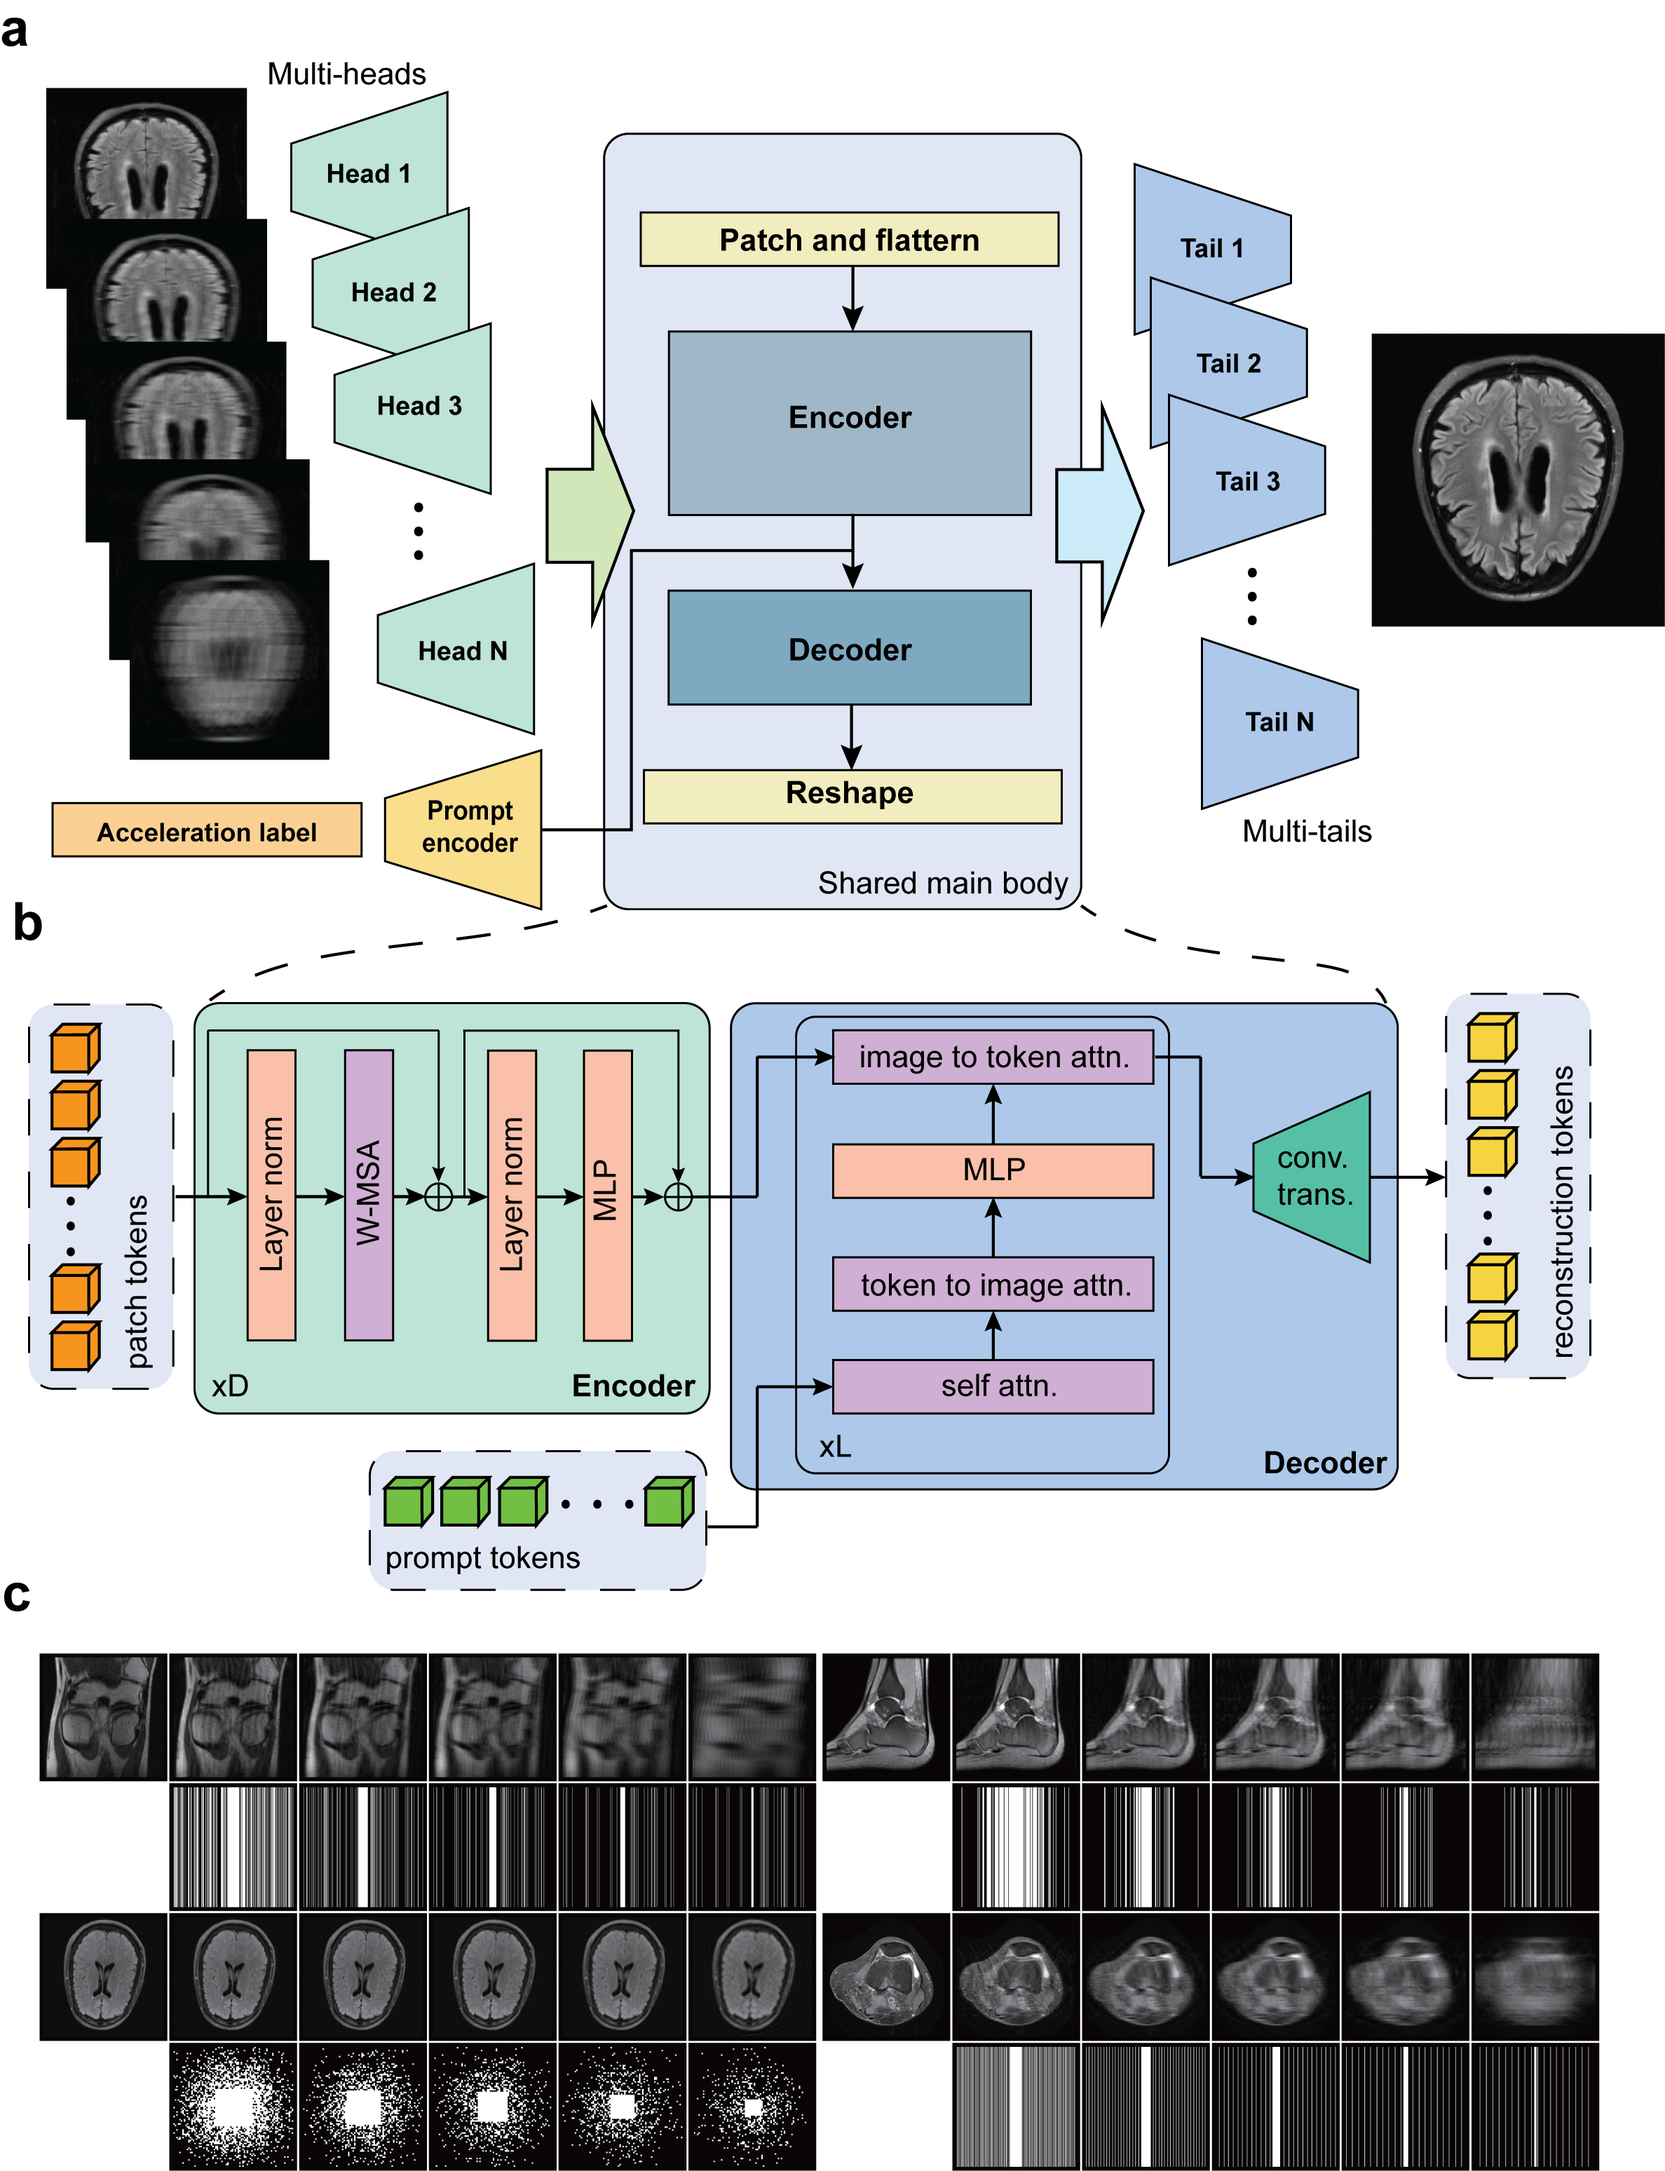
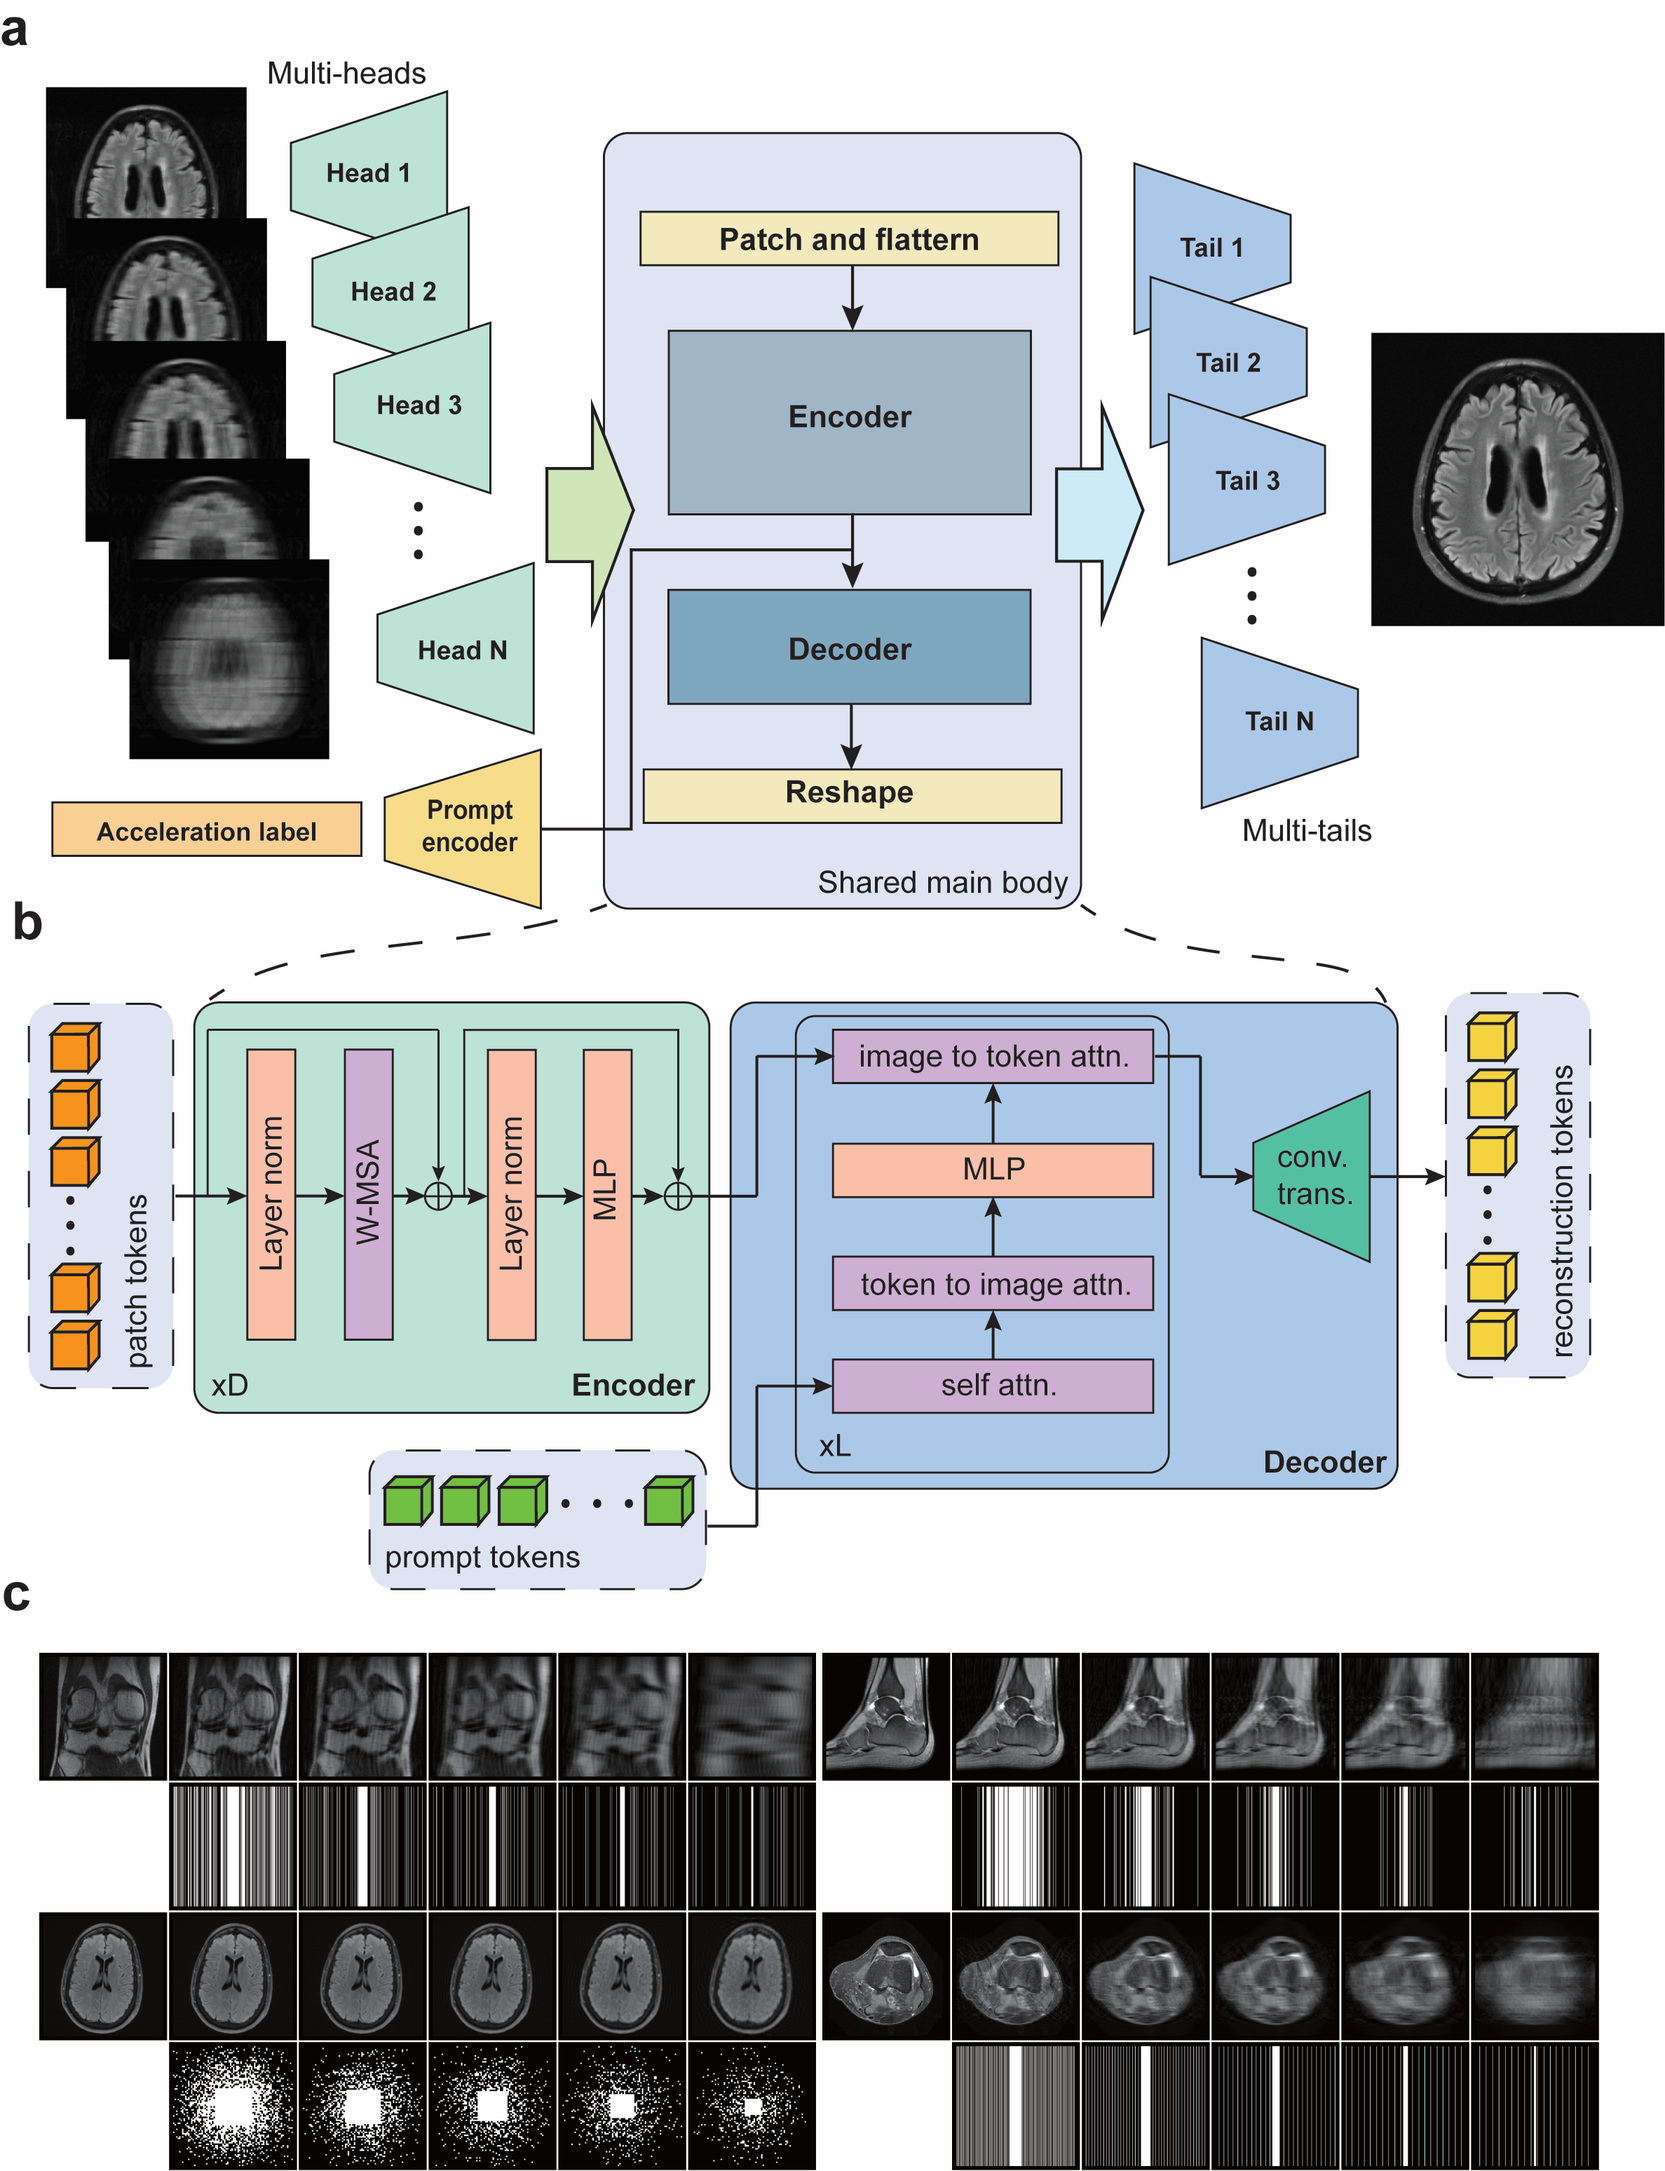
Update files

diff --git a/README.md b/README.md
@@ -1,16 +1,36 @@
 # MR-IPT
 
 This is the code repo for: 
-Magnetic Resonance Image Processing Transformer for General Accelerated Image Reconstruction.
+
+[Magnetic resonance image processing transformer for general accelerated image restoration](https://www.nature.com/articles/s41598-025-23851-w).
 
 
 ## Overview
-In this work, we introduce the Magnetic Resonance Image Processing Transformer (MR-IPT), 
-a ViT-based framework designed to enhance the generalizability and robustness of accelerated MRI reconstruction. 
-Unlike conventional deep learning models that require separate training for different acceleration factors, 
-MR-IPT is pre-trained on a large-scale dataset encompassing multiple undersampling patterns and acceleration settings, 
-enabling a unified reconstruction framework.
+Recent advancements in deep learning have enabled the development of generalizable models that 
+achieve state-of-the-art performance across various imaging tasks. Vision Transformer (ViT)-based 
+architectures, in particular, have demonstrated strong feature extraction capabilities when 
+pre-trained on large-scale datasets. In this work, we introduce the Magnetic Resonance Image 
+Processing Transformer (MR-IPT), a ViT-based image-domain framework designed to enhance the 
+generalizability and robustness of accelerated MRI restoration. Unlike conventional deep learning 
+models that require separate training for different acceleration factors, MR-IPT is pre-trained 
+on a large-scale dataset encompassing multiple undersampling patterns and acceleration settings, 
+enabling a unified framework. By leveraging a shared transformer backbone, MR-IPT effectively 
+learns universal feature representations, allowing it to generalize across diverse restoration tasks. 
+Extensive experiments demonstrate that MR-IPT outperforms both CNN-based and existing transformer-based 
+methods, achieving superior quality across varying acceleration factors and sampling masks. Moreover, 
+MR-IPT exhibits strong robustness, maintaining high performance even under unseen acquisition setups, 
+highlighting its potential as a scalable and efficient solution for accelerated MRI. Our findings 
+suggest that transformer-based general models can significantly advance MRI restoration, offering 
+improved adaptability and stability compared to traditional deep learning approaches.
 
 
-MR-IPT Framework
-![MR-IPT Framework](/figs/fig1.png)
+### MR-IPT Framework
+<p align="center">
+    <img src="/figs/fig1.png" width="500" />
+</p>
+
+### Reconstruction Examples
+<p align="center">
+    <img src="/figs/fig2.png" width="1000" />
+    <img src="/figs/fig3.png" width="500" />
+</p>
